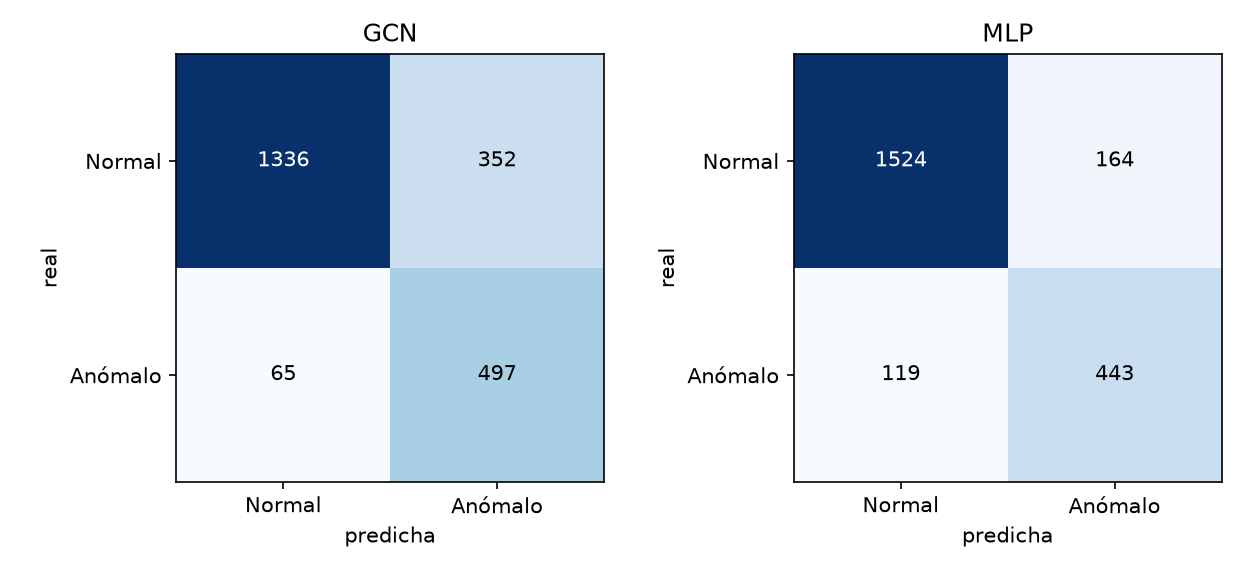
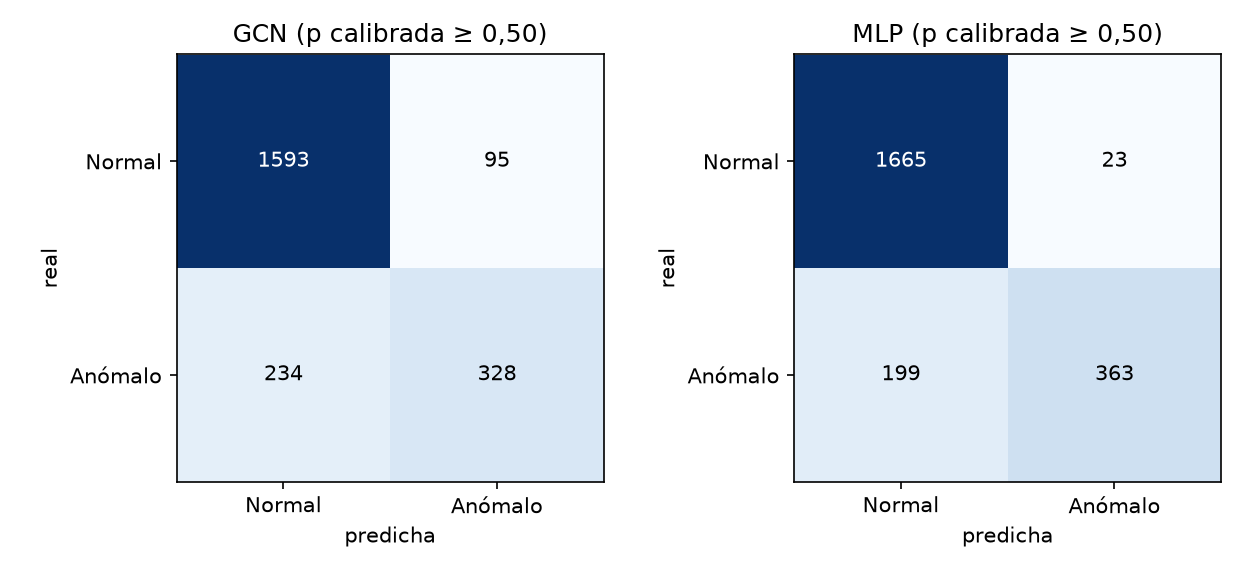
Calibra p_anomalo de la GCN para corregir el sesgo de los pesos de clase
Claude-Session: https://claude.ai/code/session_01KoCdxLdoDhWwNsfquSAcS9

diff --git a/backend/softcast/entrenar.py b/backend/softcast/entrenar.py
@@ -17,7 +17,7 @@ from torch import nn
 from torch_geometric.loader import DataLoader
 
 from softcast.generador import generar_dataset, particionar
-from softcast.gnn import GCNSoftCast, MLPBase, contar_parametros
+from softcast.gnn import GCNSoftCast, MLPBase, calibrar, contar_parametros
 
 RAIZ = Path(__file__).resolve().parent.parent
 SEMILLA = 42
@@ -86,21 +86,39 @@ def entrenar_modelo(modelo, entrenamiento, validacion, pesos):
 
 
 @torch.no_grad()
-def evaluar(modelo, prueba):
-    """Precisión, recall y F1 de la clase Anómalo y matriz de confusión sobre los grafos de prueba."""
+def probabilidades(modelo, datos):
     modelo.eval()
-    reales, predichas = [], []
-    for lote in DataLoader(prueba, batch_size=TAMANO_LOTE):
-        logits = modelo(lote.x, lote.edge_index, lote.edge_weight)
-        reales.append(lote.y)
-        predichas.append(logits.argmax(dim=1))
-    y, y_hat = torch.cat(reales).numpy(), torch.cat(predichas).numpy()
+    ps, ys = [], []
+    for lote in DataLoader(datos, batch_size=TAMANO_LOTE):
+        ps.append(torch.softmax(modelo(lote.x, lote.edge_index, lote.edge_weight), dim=1)[:, 1])
+        ys.append(lote.y)
+    return torch.cat(ps), torch.cat(ys).numpy()
+
+
+def metricas_de(y, p, corte=0.5):
+    """Precisión, recall y F1 de la clase Anómalo y matriz de confusión con p ≥ corte."""
+    y_hat = (p >= corte).numpy().astype(int)
     precision, recall, f1, _ = precision_recall_fscore_support(y, y_hat, average="binary", pos_label=1, zero_division=0)
     return {
         "precision": float(precision),
         "recall": float(recall),
         "f1": float(f1),
         "matriz_confusion": confusion_matrix(y, y_hat, labels=[0, 1]).tolist(),
+    }
+
+
+def evaluar(modelo, prueba, razon_pesos):
+    """
+    Métricas sobre los grafos de prueba en tres puntos de operación:
+    calibrado con corte 0,50 (el que usa el prototipo para el estado Anómalo),
+    calibrado con corte 0,40 (Alerta temprana o peor) y sin calibrar (argmax).
+    """
+    p, y = probabilidades(modelo, prueba)
+    p_calibrada = calibrar(p, razon_pesos)
+    return {
+        "calibrado": metricas_de(y, p_calibrada, 0.5),
+        "corte_0_40": metricas_de(y, p_calibrada, 0.4),
+        "sin_calibrar": metricas_de(y, p, 0.5),
     }
 
 
@@ -132,7 +150,7 @@ def graficar_matrices(resultados, ruta):
         eje.set_yticks([0, 1], ["Normal", "Anómalo"])
         eje.set_xlabel("predicha")
         eje.set_ylabel("real")
-        eje.set_title(nombre)
+        eje.set_title(f"{nombre} (p calibrada ≥ 0,50)")
     fig.tight_layout()
     fig.savefig(ruta, dpi=150)
     plt.close(fig)
@@ -146,26 +164,29 @@ def main(escala_peso=1.0):
     y = torch.cat([d.y for d in dataset])
     porcentaje_anomalos = float(y.float().mean()) * 100
     pesos = pesos_de_clase(entrenamiento)
-    print(f"Anómalos en el dataset: {porcentaje_anomalos:.2f} %  (pesos de clase {pesos.tolist()})")
+    razon_pesos = float(pesos[1] / pesos[0])
+    print(f"Anómalos en el dataset: {porcentaje_anomalos:.2f} %  (pesos de clase {pesos.tolist()}, razón {razon_pesos:.2f})")
 
     resultados = {}
     for nombre, clase in [("GCN", GCNSoftCast), ("MLP", MLPBase)]:
         fijar_semillas()
         modelo = clase()
         r = entrenar_modelo(modelo, entrenamiento, validacion, pesos)
-        r["metricas"] = evaluar(modelo, prueba)
+        evaluacion = evaluar(modelo, prueba, razon_pesos)
+        r["metricas"] = evaluacion["calibrado"]
+        r["evaluacion"] = evaluacion
         r["parametros"] = contar_parametros(modelo)
         r["modelo"] = modelo
         resultados[nombre] = r
-        m = r["metricas"]
-        print(f"{nombre}: {r['parametros']} parámetros, {r['epocas']} épocas (mejor {r['mejor_epoca']}), "
-              f"precisión {m['precision']:.3f}, recall {m['recall']:.3f}, F1 {m['f1']:.3f}")
+        print(f"{nombre}: {r['parametros']} parámetros, {r['epocas']} épocas (mejor {r['mejor_epoca']})")
+        for punto, m in evaluacion.items():
+            print(f"   {punto:>12}: precisión {m['precision']:.3f}, recall {m['recall']:.3f}, F1 {m['f1']:.3f}")
 
     (RAIZ / "modelos").mkdir(exist_ok=True)
     (RAIZ / "salidas").mkdir(exist_ok=True)
     for nombre, archivo in [("GCN", "modelo_gcn.pt"), ("MLP", "modelo_mlp.pt")]:
-        torch.save({"estado": resultados[nombre]["modelo"].state_dict(), "escala_peso": escala_peso},
-                   RAIZ / "modelos" / archivo)
+        torch.save({"estado": resultados[nombre]["modelo"].state_dict(), "escala_peso": escala_peso,
+                    "razon_pesos": razon_pesos}, RAIZ / "modelos" / archivo)
 
     metricas = {
         "semilla": SEMILLA,
@@ -173,12 +194,15 @@ def main(escala_peso=1.0):
         "grafos": {"entrenamiento": len(entrenamiento), "validacion": len(validacion), "prueba": len(prueba)},
         "porcentaje_anomalos": porcentaje_anomalos,
         "pesos_de_clase": pesos.tolist(),
+        "razon_pesos": razon_pesos,
         **{
             nombre.lower(): {
                 "parametros": r["parametros"],
                 "epocas": r["epocas"],
                 "mejor_epoca": r["mejor_epoca"],
-                **r["metricas"],
+                **r["metricas"],  # calibrado, corte 0,50: el punto de operación del prototipo
+                "corte_0_40": r["evaluacion"]["corte_0_40"],
+                "sin_calibrar": r["evaluacion"]["sin_calibrar"],
             }
             for nombre, r in resultados.items()
         },

diff --git a/backend/tests/test_gnn.py b/backend/tests/test_gnn.py
@@ -3,7 +3,7 @@ import torch
 
 from softcast.datos_base import ARISTAS, NODOS, RANGOS_LATENCIA
 from softcast.generador import categoria, generar_dataset, generar_grafos, particionar
-from softcast.gnn import GCNSoftCast, MLPBase, a_data, cargar_gcn, contar_parametros, predecir
+from softcast.gnn import GCNSoftCast, MLPBase, a_data, calibrar, cargar_gcn, contar_parametros, predecir
 from softcast.grafo import aplicar_bloqueos, construir_grafo
 
 ARISTAS_BASE = [{"origen": o, "destino": d, "latencia_ms": lat} for o, d, lat, _ in ARISTAS]
@@ -69,6 +69,29 @@ def test_predecir_devuelve_p_anomalo_por_nodo_activo():
     assert set(p) == {n["id"] for n in nodos}
     assert all(0.0 <= v <= 1.0 for v in p.values())
     assert predecir(GCNSoftCast(), [], []) == {}
+
+
+def test_calibrar_deshace_el_sesgo_de_los_pesos_de_clase():
+    assert calibrar(0.5, 1.0).item() == pytest.approx(0.5, abs=1e-6)
+    assert calibrar(0.5, 3.37).item() == pytest.approx(1 / (1 + 3.37), abs=1e-6)  # odds 1 / 3,37
+    assert calibrar(0.0, 3.37).item() == pytest.approx(0.0, abs=1e-5)
+    assert calibrar(1.0, 3.37).item() == pytest.approx(1.0, abs=1e-5)
+    p = torch.linspace(0.01, 0.99, 50)
+    assert (calibrar(p, 3.37) < p).all() and (calibrar(p, 3.37).diff() > 0).all()  # monótona y más baja
+
+
+def test_predecir_aplica_la_calibracion_del_modelo():
+    modelo = GCNSoftCast()
+    sin = predecir(modelo, NODOS, ARISTAS_BASE)
+    modelo.razon_pesos = 3.37
+    con = predecir(modelo, NODOS, ARISTAS_BASE)
+    assert all(con[i] < sin[i] for i in sin)
+
+
+def test_cargar_gcn_recupera_la_razon_de_pesos(tmp_path):
+    torch.save({"estado": GCNSoftCast().state_dict(), "escala_peso": 1.0, "razon_pesos": 3.37}, tmp_path / "m.pt")
+    modelo, _ = cargar_gcn(tmp_path / "m.pt")
+    assert modelo.razon_pesos == 3.37
 
 
 def test_cargar_gcn_sin_archivo_devuelve_none(tmp_path):

diff --git a/backend/softcast/gnn.py b/backend/softcast/gnn.py
@@ -81,14 +81,26 @@ def a_data(nodos, aristas, clases=None, escala_peso=1.0):
     return data
 
 
+def calibrar(p_anomalo, razon_pesos):
+    """
+    Corrige el sesgo de los pesos de clase. Entrenar con pesos inversos a la frecuencia
+    multiplica por `razon_pesos` los odds a favor de Anómalo; aquí se deshace, de modo
+    que p_anomalo vuelve a ser una probabilidad y los cortes 0,40 y 0,50 de §8 tienen sentido.
+    """
+    p = torch.as_tensor(p_anomalo, dtype=torch.float).clamp(1e-7, 1 - 1e-7)
+    odds = p / (1 - p) / razon_pesos
+    return odds / (1 + odds)
+
+
 @torch.no_grad()
 def predecir(modelo, nodos_activos, aristas_activas, escala_peso=1.0):
-    """{id: p_anomalo} para los nodos activos, con softmax sobre los logits."""
+    """{id: p_anomalo} calibrada para los nodos activos, con softmax sobre los logits."""
     if not nodos_activos:
         return {}
     modelo.eval()
     data = a_data(nodos_activos, aristas_activas, escala_peso=escala_peso)
     probabilidades = torch.softmax(modelo(data.x, data.edge_index, data.edge_weight), dim=1)[:, 1]
+    probabilidades = calibrar(probabilidades, getattr(modelo, "razon_pesos", 1.0))
     return {n["id"]: float(p) for n, p in zip(nodos_activos, probabilidades)}
 
 
@@ -99,6 +111,7 @@ def cargar_gcn(ruta):
     guardado = torch.load(ruta, map_location="cpu")
     modelo = GCNSoftCast()
     modelo.load_state_dict(guardado["estado"])
+    modelo.razon_pesos = guardado.get("razon_pesos", 1.0)
     modelo.eval()
     return modelo, guardado["escala_peso"]
 

diff --git a/backend/tests/test_sesion.py b/backend/tests/test_sesion.py
@@ -148,6 +148,18 @@ def test_respaldo_por_umbral_si_no_hay_modelo():
     assert {n["id"] for n in red["nodos"] if n["estado"] == "Anómalo"} == {"PC2", "IoT2", "IoT7"}
 
 
+def test_la_gnn_reproduce_los_anomalos_de_la_tabla_3_en_el_escenario_base():
+    red = Sesion(42, bloqueo_inicial=False).red()
+    assert red["fuente"] == "gnn"
+    assert {n["id"] for n in red["nodos"] if n["estado"] == "Anómalo"} == {"PC2", "IoT2", "IoT7"}
+
+
+def test_los_vecinos_de_un_anomalo_quedan_a_lo_sumo_en_alerta_temprana_en_el_escenario_base():
+    niveles = {n["id"]: n["nivel_alerta"] for n in Sesion(42, bloqueo_inicial=False).red()["nodos"]}
+    assert niveles["S1"] == niveles["IoT1"] == "Alerta temprana"
+    assert {i for i, nivel in niveles.items() if nivel == "Anómalo"} == {"PC2", "IoT2", "IoT7"}
+
+
 def test_latencias_aleatorias_caen_en_su_rango_y_repiten_con_la_semilla():
     a, b = Sesion(3, latencias="aleatorias"), Sesion(3, latencias="aleatorias")
     lat = lambda s: {x["id"]: x["latencia_ms"] for x in s.red()["aristas"]}

diff --git a/CONTEXTO.md b/CONTEXTO.md
@@ -315,11 +315,13 @@ Conteo: 112 + 136 + 18 = 266.
 - Adam con lr = 0.01.
 - Máximo 200 épocas, con parada temprana (paciencia 20, monitoreando la pérdida de validación).
 - Semillas fijas: torch, numpy y random = 42.
+- **Calibración de p (añadida tras medir el escenario base):** los pesos de clase inversos a la frecuencia multiplican por `razon_pesos` (≈ 3,37) los odds a favor de Anómalo, y con `p ≥ 0,5` sin corregir la GCN marcaba como Anómalos a S1, S2 e IoT1, que la Tabla 2.1 da como Normales. Al guardar el modelo se guarda `razon_pesos`, y la inferencia divide los odds entre ese valor (`calibrar` en `gnn.py`). No usa datos de prueba ni cambia la arquitectura ni el entrenamiento.
 
 ### 7.7 Evaluación (se guarda, no se exige mostrarla en la interfaz)
 
 - Precisión, recall y F1 de la clase Anómalo, más la matriz de confusión, sobre los 150 grafos de prueba.
 - Baseline: un MLP sin estructura de grafo (6 → 16 → 8 → 2) con el mismo protocolo.
+- Las métricas se reportan en tres puntos de operación: calibrado con corte 0,50 (el del prototipo), calibrado con corte 0,40 (Alerta temprana o peor) y sin calibrar.
 - Se reportan las métricas de GCN y MLP **tal como salgan**. Se espera que la GCN supere al MLP en recall de Anómalo por la regla de vecindad, pero no se asume: si no lo supera, se explica por qué.
 
 ### 7.8 Inferencia en el prototipo
@@ -327,7 +329,7 @@ Conteo: 112 + 136 + 18 = 266.
 1. Se construye el subgrafo de nodos **no bloqueados** y aristas **no bloqueadas**.
 2. Se recalculan las features (la latencia media cambia si se bloquearon aristas).
 3. Se ejecuta la GCN.
-4. Para cada nodo activo se devuelve `p_anomalo`.
+4. Para cada nodo activo se devuelve `p_anomalo`, ya calibrada (§7.6). Con ella, el escenario base marca como Anómalos exactamente PC2, IoT2 e IoT7; S1 e IoT1 quedan en Alerta temprana.
 
 Si el archivo del modelo entrenado no existe, el backend usa el criterio de umbral como respaldo y lo indica en la respuesta con `fuente: "umbral"`; en el caso normal es `fuente: "gnn"`.
 
